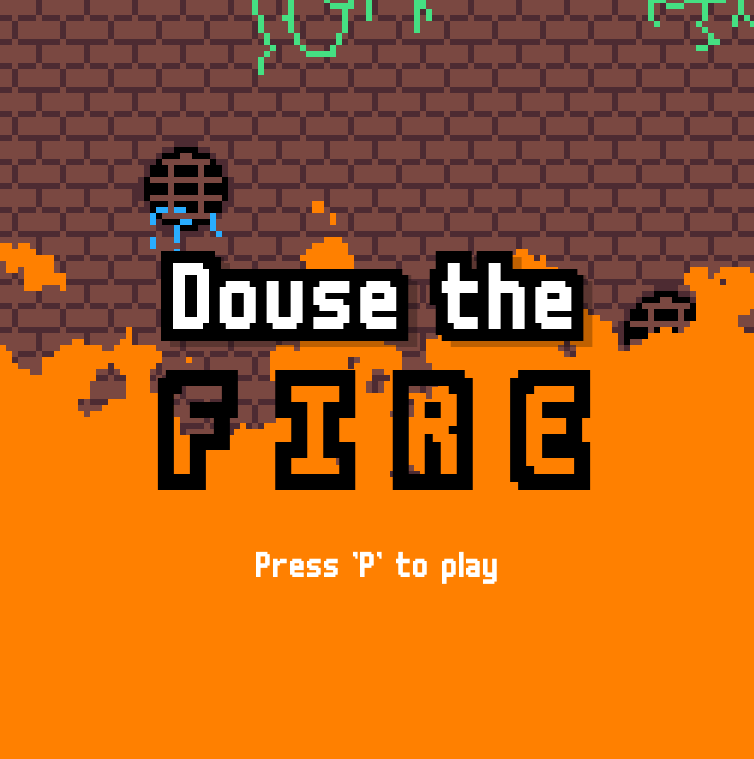
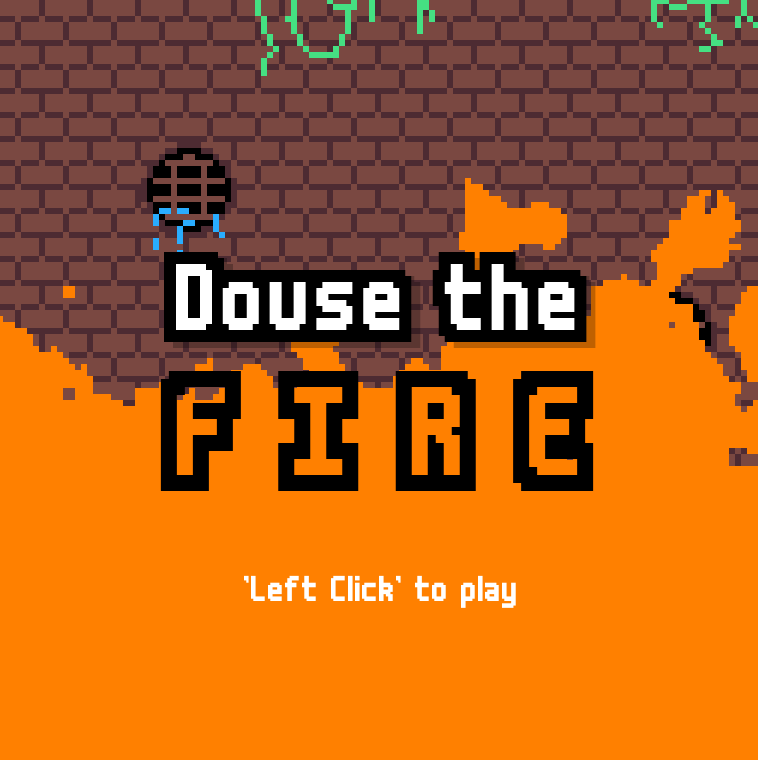
Added help page

diff --git a/src/main.c b/src/main.c
@@ -30,6 +30,7 @@ enum Direction
 enum State
 {
 	START,
+	HOWTO,
 	PLAYING,
 	END,
 	WON,
@@ -121,6 +122,7 @@ int main()
 	Texture2D bricksTexture = LoadTexture("assets/bricks.png");
 	Texture2D noiseTexture = LoadTexture("assets/noise.png");
 	Texture2D startPageTexture = LoadTexture("assets/start_page.png");
+	Texture2D helpPageTexture = LoadTexture("assets/help_page.png");
 
 
 	Font mx16Font = LoadFont("assets/m6x11.ttf");
@@ -232,6 +234,7 @@ int main()
 	playText.origin = GetFontOrigin(playText);
 	playText.pos = (Vector2){WINDOW_WIDTH/2.f, WINDOW_HEIGHT - 200.f};
 	playText.startPos = (Vector2){WINDOW_WIDTH/2.f, WINDOW_HEIGHT - 200.f};
+
 
 	struct Text levelText = 
 	{
@@ -400,7 +403,7 @@ int main()
 				if (IsMouseButtonPressed(MOUSE_BUTTON_LEFT))
 				{
 					currentLevelTime = puzzles[currentPuzzleIndex].levelTime;
-					fadeIn.to = PLAYING;
+					fadeIn.to = HOWTO;
 					fadeIn.isStarted = true;
 				}
 			}
@@ -408,6 +411,21 @@ int main()
 			SetShaderValue(fireShader, GetShaderLocation(fireShader, "time"), &fireTime, SHADER_UNIFORM_FLOAT);
 			SetShaderValue(fireShader, GetShaderLocation(fireShader, "yOffset"), (float[1]) { 0.65f }, SHADER_UNIFORM_FLOAT);
 			
+			break;
+		case HOWTO:
+			if (fadeOut.isCompleted && !fadeIn.isStarted) {
+				playText.pos.y += playText.speed * dt;
+				if (playText.pos.y > playText.startPos.y + 30.f || playText.pos.y < playText.startPos.y) {
+					playText.speed *= -1;
+				}
+				if (IsMouseButtonPressed(MOUSE_BUTTON_LEFT))
+				{
+					currentLevelTime = puzzles[currentPuzzleIndex].levelTime;
+					fadeIn.to = PLAYING;
+					fadeIn.isStarted = true;
+				}
+			}
+			UpdateMusicStream(fireMusic);
 			break;
 		case PLAYING:
 			currentLevelTime -= dt;
@@ -664,7 +682,10 @@ int main()
 			DrawCustomText(mx16Font, playText);
 			DrawTexture(startPageTexture, 0, 0, whiteColor);
 			break;
-		
+		case HOWTO:
+			DrawTexture(helpPageTexture, 0, 0, whiteColor);
+			DrawCustomText(mx16Font, playText);
+			break;
 		case PLAYING:
 			DrawCustomText(mx16Font, levelText);
 			DrawCustomText(mx16Font, timeText);
@@ -701,6 +722,8 @@ int main()
 	UnloadMusicStream(fireMusic);
 	UnloadSound(cardSnd);
 	UnloadFont(mx16Font);
+	UnloadTexture(helpPageTexture);
+	UnloadTexture(startPageTexture);
 	UnloadTexture(noiseTexture);
 	UnloadTexture(bricksTexture);
 	UnloadTexture(atlasTexture);
